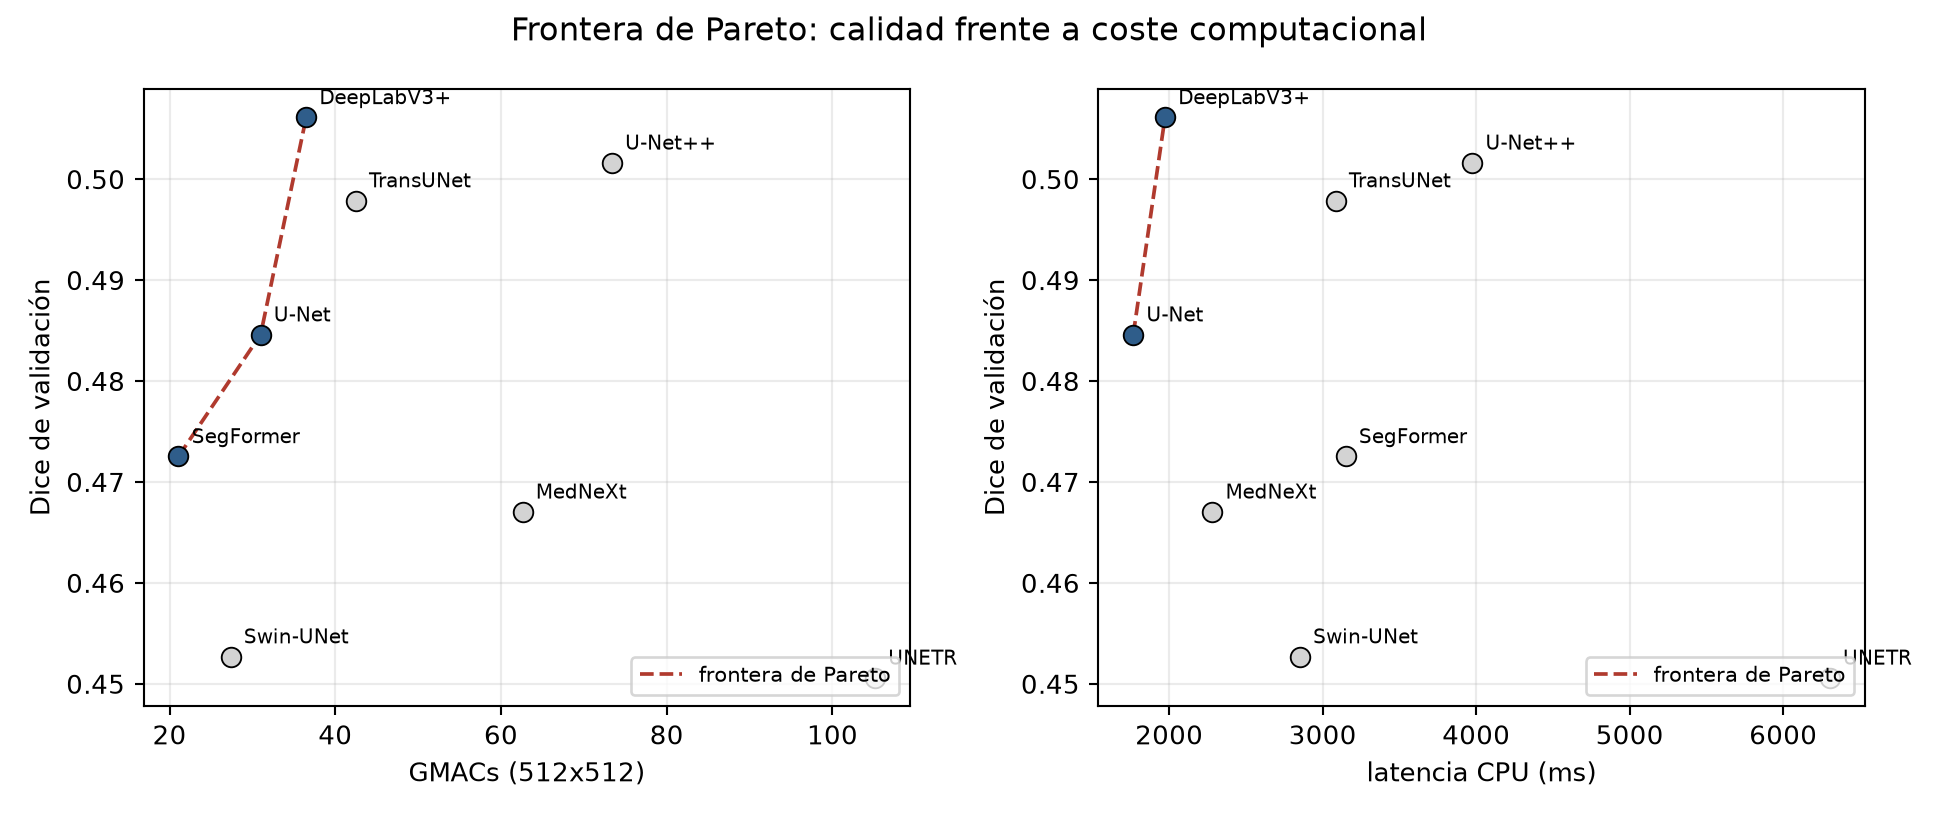
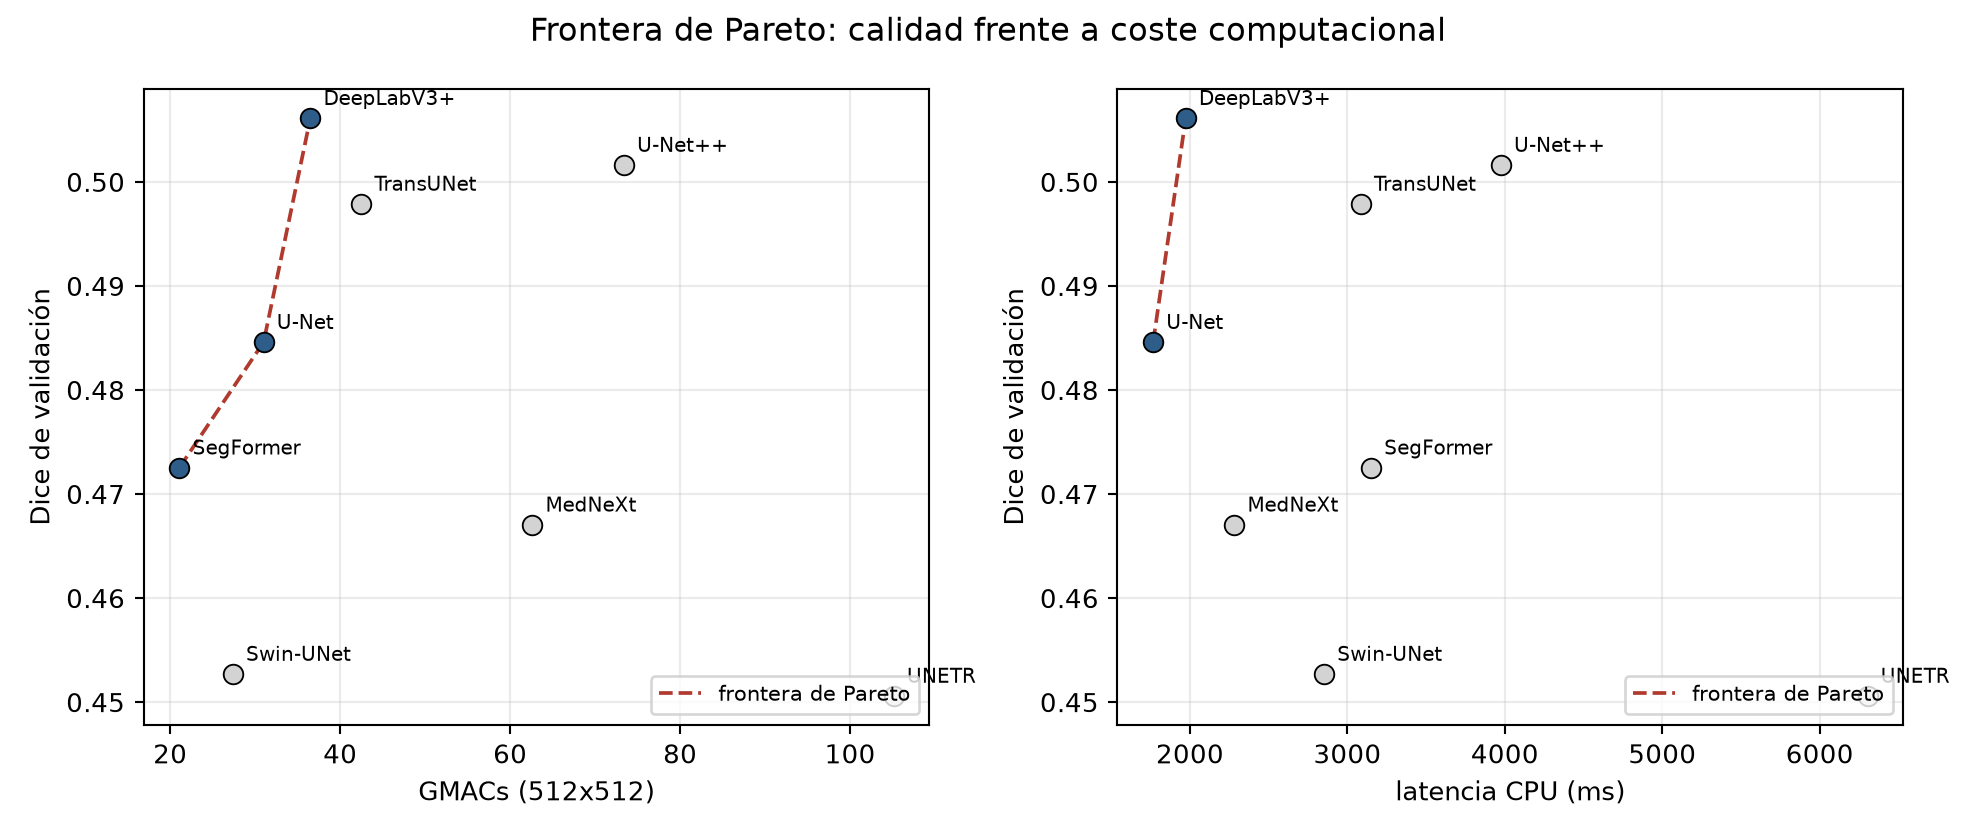
Seccion 6: Attention U-Net en las figuras de Dice y Pareto + nota de nnU-Net no disponible

diff --git a/codigo/figuras_benchmark.py b/codigo/figuras_benchmark.py
@@ -38,12 +38,17 @@ os.makedirs(OUT, exist_ok=True)
 SEMILLAS = [42, 123, 777, 2024, 31415]
 MODELOS = ["unet", "unet_pp", "deeplabv3p", "transunet",
            "swin_unet", "unetr", "segformer", "mednext"]
+# Attention U-Net entrenó por error un U-Net plano (ver Sección 6.3/7.6):
+# se muestra en las figuras como duplicado, fuera de la inferencia.
+DUPLICADOS = ["attention_unet", "unet_fuerte"]
 ETIQUETAS = {
     "unet": "U-Net", "unet_pp": "U-Net++", "deeplabv3p": "DeepLabV3+",
     "transunet": "TransUNet", "swin_unet": "Swin-UNet", "unetr": "UNETR",
     "segformer": "SegFormer", "mednext": "MedNeXt",
+    "attention_unet": "Attention U-Net", "unet_fuerte": "unet_fuerte",
 }
 COLOR = "#2f5d8a"
+COLOR_DUP = "#b03a2e"
 
 
 # ------------------------------------------------------------------ datos
@@ -62,6 +67,7 @@ def cargar(dir_res):
 
 
 def resumen(dice):
+    """Resumen de los 8 modelos válidos; añade Attention U-Net como duplicado."""
     M = {m: np.array([dice[(m, s)] for s in SEMILLAS]) for m in MODELOS}
     out = {}
     rng = np.random.default_rng(42)
@@ -72,6 +78,14 @@ def resumen(dice):
         out[m] = {"media": float(v.mean()), "sd": float(v.std(ddof=1)),
                   "lo": float(lo), "hi": float(hi),
                   "cv": float(100 * v.std(ddof=1) / v.mean())}
+    if "attention_unet" in dice:
+        v = np.array([dice[("attention_unet", s)] for s in SEMILLAS])
+        dup = (np.max(np.abs(v - M["unet"])) < 1e-9)
+        out["attention_unet"] = {
+            "media": float(v.mean()), "sd": float(v.std(ddof=1)),
+            "lo": float(v.mean()), "hi": float(v.mean()),
+            "cv": float(100 * v.std(ddof=1) / v.mean()),
+            "duplicado_de": "unet", "identico": bool(dup)}
     return M, out
 
 
@@ -89,25 +103,35 @@ def cd_nemenyi(k=8, n=5, alpha=0.05):
 
 # --------------------------------------------------------------- figura 1
 def fig_dice_ci(res):
-    orden = sorted(MODELOS, key=lambda m: res[m]["media"])
-    fig, ax = plt.subplots(figsize=(7.2, 4.4))
-    y = np.arange(len(orden))
-    vals = [res[m]["media"] for m in orden]
-    lo = [res[m]["media"] - res[m]["lo"] for m in orden]
-    hi = [res[m]["hi"] - res[m]["media"] for m in orden]
-    ax.barh(y, vals, color=COLOR, alpha=0.85, height=0.6)
+    orden = sorted([m for m in res if m not in DUPLICADOS],
+                   key=lambda m: res[m]["media"])
+    dup = [m for m in DUPLICADOS if m in res and res[m].get("identico")]
+    orden_total = orden + dup
+    fig, ax = plt.subplots(figsize=(7.6, 5.0))
+    y = np.arange(len(orden_total))
+    vals = [res[m]["media"] for m in orden_total]
+    lo = [res[m]["media"] - res[m]["lo"] for m in orden_total]
+    hi = [res[m]["hi"] - res[m]["media"] for m in orden_total]
+    colores = [COLOR_DUP if m in DUPLICADOS else COLOR for m in orden_total]
+    ax.barh(y, vals, color=colores, alpha=0.85, height=0.6)
     ax.errorbar(vals, y, xerr=[lo, hi], fmt="none", ecolor="black",
                 capsize=3, lw=1.2)
-    ax.set_yticks(y, [ETIQUETAS[m] for m in orden])
+    ax.set_yticks(y, [ETIQUETAS[m] for m in orden_total])
     ax.set_xlim(0.42, 0.53)
     ax.set_xlabel("Dice de validación (media de 5 semillas; IC 95 % bootstrap)")
-    ax.axvline(0.156, color="#b03a2e", ls="--", lw=1)
-    ax.text(0.158, len(orden) - 0.35, "trivial todo-foreground 0,156",
-            color="#b03a2e", fontsize=8, va="top")
-    for yi, m in zip(y, orden):
+    ax.axvline(0.156, color="#7d7d7d", ls="--", lw=1)
+    ax.text(0.158, len(orden_total) - 0.35, "trivial todo-foreground 0,156",
+            color="#7d7d7d", fontsize=8, va="top")
+    for yi, m in zip(y, orden_total):
         ax.text(res[m]["media"] + 0.001, yi, f"{res[m]['media']:.4f}",
                 va="center", fontsize=8)
-    ax.set_title("Dice de validación por modelo (8 modelos con runs válidos)")
+    for m in dup:
+        yi = orden_total.index(m)
+        ax.text(res[m]["media"] + 0.009, yi,
+                "duplicado exacto de U-Net (no entra a la inferencia)",
+                va="center", fontsize=7.5, color=COLOR_DUP)
+    ax.set_title("Dice de validación por modelo\n"
+                 "(8 modelos válidos + Attention U-Net, excluido)")
     ax.grid(axis="x", alpha=0.25)
     fig.tight_layout()
     ruta = os.path.join(OUT, "dice_ci.png")
@@ -193,7 +217,7 @@ def fig_pareto(res, perfil):
         "gmacs": ("GMACs (512x512)", lambda m: float(perfil[m]["gmacs"])),
         "latencia": ("latencia CPU (ms)", lambda m: float(perfil[m]["latencia_ms_mediana"])),
     }
-    fig, axes = plt.subplots(1, 2, figsize=(10.2, 4.3))
+    fig, axes = plt.subplots(1, 2, figsize=(10.4, 4.4))
     for ax, (clave, (etiqueta, fn)) in zip(axes, costes.items()):
         pts = [(m, fn(m), res[m]["media"]) for m in MODELOS]
         fr = frontera(pts)
@@ -203,6 +227,14 @@ def fig_pareto(res, perfil):
                        edgecolor="black", lw=0.7, zorder=3)
             ax.annotate(ETIQUETAS[m], (c, d), textcoords="offset points",
                         xytext=(5, 5), fontsize=7.5)
+        # Attention U-Net: mismo desempeño que U-Net, mayor coste (duplicado)
+        if "attention_unet" in res:
+            c_dup, d_dup = fn("attention_unet"), res["attention_unet"]["media"]
+            ax.scatter([c_dup], [d_dup], s=55, marker="X", color=COLOR_DUP,
+                       edgecolor="black", lw=0.7, zorder=3)
+            ax.annotate("Attention U-Net (duplicado)", (c_dup, d_dup),
+                        textcoords="offset points", xytext=(5, -12),
+                        fontsize=7.5, color=COLOR_DUP)
         fr = sorted(fr, key=lambda x: x[1])
         ax.plot([p[1] for p in fr], [p[2] for p in fr], color="#b03a2e",
                 lw=1.4, ls="--", zorder=2, label="frontera de Pareto")

diff --git a/libro/book/06_benchmark_final.md b/libro/book/06_benchmark_final.md
@@ -57,9 +57,38 @@ split.
 | Attention U-Net | 0,4846 ± 0,0178 | duplicado de U-Net | excluido | excluido | excluido | excluido | 7,8 | 3286 | 24,54 | 31,03 |
 | nnU-Net | `no_disponible` ×5 | — | — | — | — | — | — | — | — | pipeline propio |
 
-**Figura 6.1** (generada por `codigo/figuras_benchmark.py`):
+**Figura 6.1** (generada por `codigo/figuras_benchmark.py`). Incluye Attention
+U-Net marcado en rojo para que la duplicación sea visible: misma altura que
+U-Net, es decir, el mismo Dice con una arquitectura que en teoría añade
+atención y que en los runs guardados no la tenía.
 
 ![Dice de validación con IC 95 % por modelo](figs_stats/dice_ci.png)
+
+### Nota sobre los modelos que no entraron
+
+Dos de las diez arquitecturas del preregistro no produjeron un run válido y se
+documentan aquí en vez de omitirse:
+
+- **Attention U-Net**: los 5 runs guardados son un **U-Net plano**. La versión
+  de la librería instalada ignoraba silenciosamente el parámetro de atención
+  (el módulo tenía 24,43 M de parámetros, idéntico a U-Net, en lugar de los
+  24,54 M con el decodificador de atención). Se detectó comparando los
+  historiales de pérdida época a época entre modelos de la misma semilla: eran
+  idénticos. La corrección ya está aplicada en `modelos_tb.py`, pero sus 5 runs
+  siguen siendo un duplicado y por eso aparecen **excluidos** de la inferencia
+  (rojo en la Figura 6.1 y fuera del panel de Pareto que marca la frontera).
+- **nnU-Net**: **no fue posible hacerlo funcionar pese a los intentos
+  realizados**. El pipeline (documentado en `docs/NNUNET_PIPELINE.md`) se
+  intentó ejecutar en Colab y falló de forma sistemática: es un framework
+  auto-configurado que exige su propio formato de datos (conversión del
+  dataset, `nnUNet_preprocessed` y planificación de configuración) y reventó
+  el tiempo de sesión y la memoria de la GPU disponible en la asignación de
+  tareas; las 5 corridas quedaron registradas como `no_disponible`, sin
+  checkpoint ni métrica. No se sustituyó por cifras de la literatura ni por
+  otro modelo: se declara la ausencia. Es una limitación real del benchmark
+  (el preregistro pedía 10 arquitecturas y la comparación final cubre 8) y se
+  recoge como tal en la discusión crítica y en las limitaciones de la
+  Sección 7.
 
 ### Métricas de calibración
 
@@ -118,6 +147,11 @@ mala).
 ### Frontera de Pareto
 
 ![Frontera de Pareto (Dice frente a GMACs y latencia)](figs_stats/pareto.png)
+
+La figura incluye **Attention U-Net** con un aspa roja: con el mismo Dice que
+U-Net pero 31,03 GMACs y 3286 ms de latencia (casi el doble), queda **fuera de
+la frontera**, que es exactamente lo que se espera de un duplicado costoso.
+nnU-Net no aparece porque no tiene ni métrica ni perfil medidos.
 
 Con los dos pares (calidad, coste) de la figura:
 
@@ -186,7 +220,9 @@ calcula sobre rangos medios, solo los pares con diferencia de rango mayor que
 **DeepLabV3+ supera a Swin-UNet (Δrango 5,60) y a UNETR (Δrango 5,00).**
 Ningún otro par supera el CD. El diagrama muestra los grupos no significativos:
 {U-Net, U-Net++, DeepLabV3+, TransUNet}, {U-Net, SegFormer, MedNeXt} y
-{MedNeXt, SegFormer, Swin-UNet, UNETR}.
+{MedNeXt, SegFormer, Swin-UNet, UNETR}. El diagrama se construye con los
+**8 modelos válidos**: ni Attention U-Net (duplicado de U-Net) ni nnU-Net
+(sin runs) tienen rangos con los que compararse.
 
 ### Comparaciones pareadas (Wilcoxon + Holm) y contraste paramétrico
 
@@ -360,9 +396,14 @@ compromiso razonable; los transformers grandes no se justifican con este N.
 
 1. **La inferencia primaria todavía no está hecha**: esta sección reporta
    validación; el test se ejecuta en la fase 6 y sus tablas no son definitivas.
-2. **nnU-Net no está**: 5 runs `no_disponible`. Sin él, el benchmark compara 9
-   arquitecturas implementadas por el equipo, no el pipeline auto-configurado
-   que la rúbrica sugiere como referencia externa.
+2. **nnU-Net no se pudo hacer funcionar.** Se intentó repetidamente y el
+   pipeline no completó ninguna corrida: exige su propio preprocesado y
+   planificación de configuración, y agotó el tiempo de sesión y la memoria de
+   la GPU disponible. Las 5 entradas quedaron como `no_disponible`, sin
+   checkpoint ni métrica. No se inventó ni se importó ninguna cifra para
+   rellenar su fila. Consecuencia honesta: el benchmark compara **8
+   arquitecturas implementadas por el equipo**, no el pipeline
+   auto-configurado que la rúbrica sugiere como referencia externa.
 3. **Attention U-Net está fuera por un defecto de implementación**: los 5 runs
    guardados entrenaron un U-Net plano (el parámetro de atención de la librería
    se ignoraba en la versión instalada, hallado al comparar los historiales de
